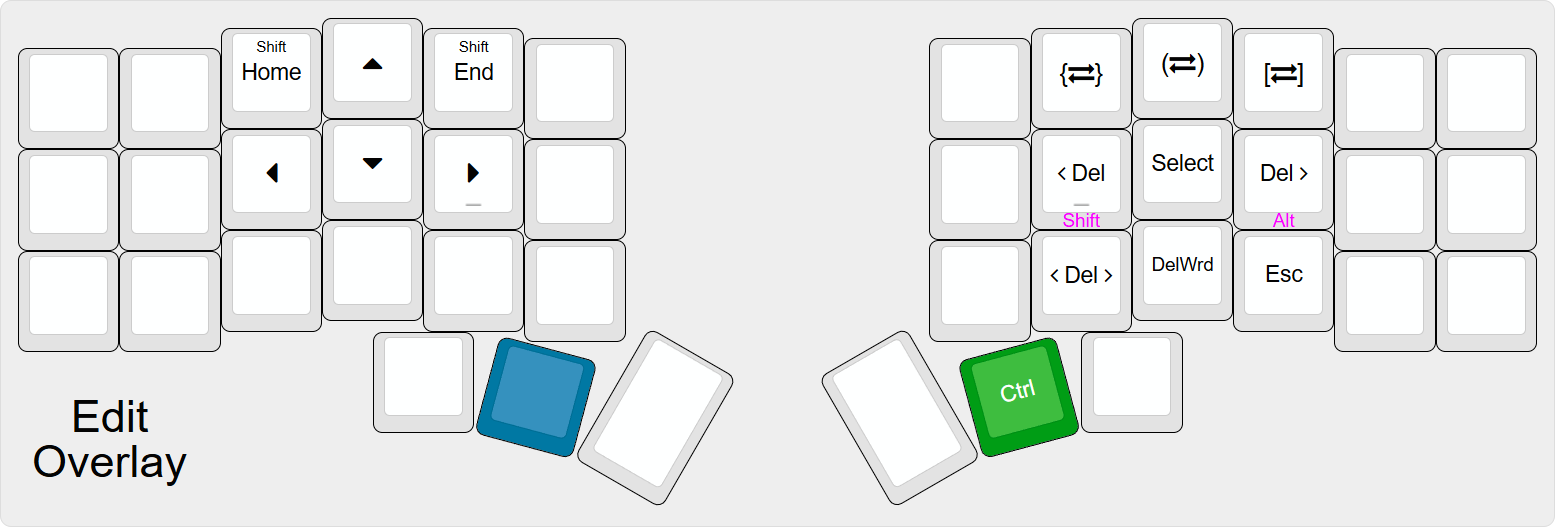
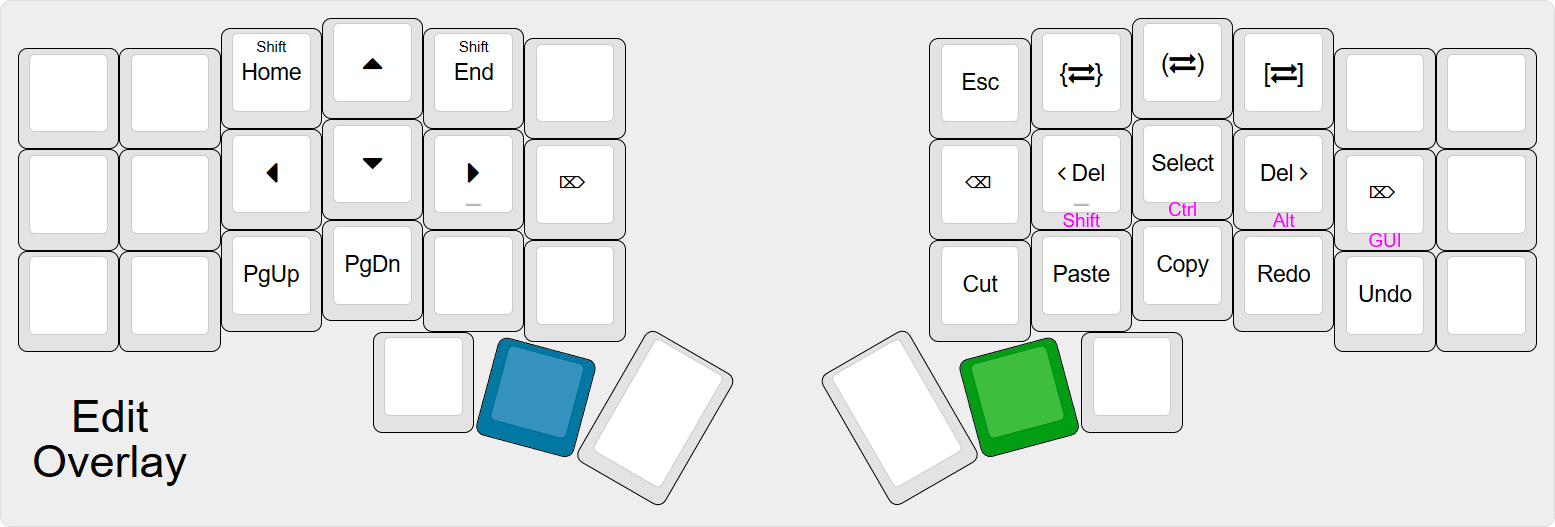
Updated layout images

diff --git a/readme.md b/readme.md
@@ -286,11 +286,9 @@ Activating the `Program` layer while on the `Edit` layer will activate the `Edit
 This layer contains macros useful for text selection and deletion:
 - The three macros at the top enclose the current word with the listed brackets. These macros also interoperate with the rollback feature.
 - The `< Del` and `Del >` macros delete the previous and forward characters in current word, respectively.
-- `Select` macro by [Getreuer](https://getreuer.info/posts/keyboards/select-word/index.html) selects the current word and extends selection by one word per subsequent press; holding shift selects/extends selection by lines instead.
-- `< Del >` deletes the current line.
-- `DelWord` deletes the current word.
+- `Select` macro selects the current word, or select the current line if shifted.
 
-The `LCTL` modifier is also held while this layer is active, and the `LSFT` modifier is additionally held for the `Home` and `End` keys.
+The `LCTL` modifier is also held for the keys listed on the left while this layer is active, apart from the `Home` and `End` keys, for which the `LSFT` modifier is held instead.
 
 
 
